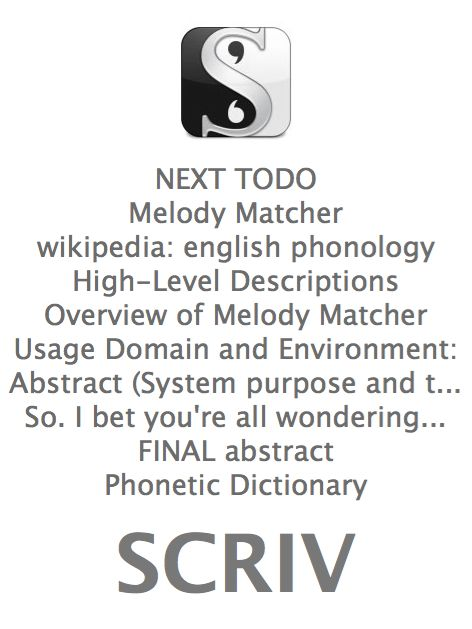
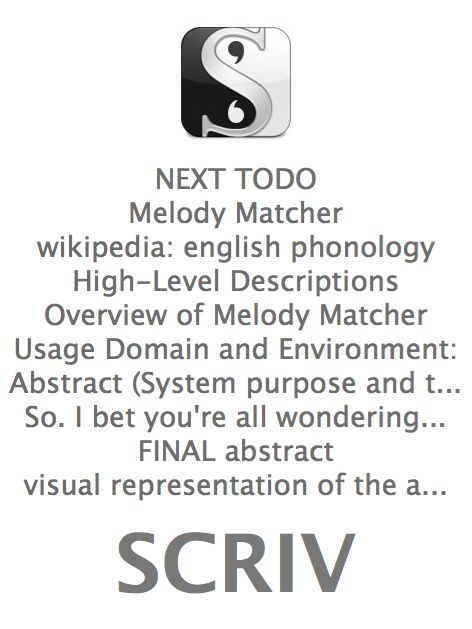
Writing abstract

Changed region(s): [[0.0297, 0.7552, 0.8898, 0.8156]]

diff --git a/Scrivener/ThesisDocumentsMelodyMatcher.scriv/QuickLook/Preview.html b/Scrivener/ThesisDocumentsMelodyMatcher.scriv/QuickLook/Preview.html
@@ -89,6 +89,17 @@ This project aims to facilitate semi-automated composition of melody and accompa
 <li>
 <p class="binderItem"><strong>FINAL abstract</strong><br/>Melody Matcher </p>
 </li>
+<li>
+<p class="binderItem"><strong>visual representation of the ambiguity of the written</strong><br/>visual representation of the phonetic ambiguity of the written word.  When writing with the expectation that ones words will be uttered by one party to an entirely different audience, you must take into account several layers of ambiguity:<br/>
+<br/>
+(1) the multiple ways that your words can be pronounced<br/>
+(2) the multiple ways that those pronunciations can be heard<br/>
+<br/>
+For example: Say you are a speechwriter.  Your speech contains the phrase “ In this blessed hour, let us rest what worries we have from the d...</p>
+</li>
+<li>
+<p class="binderItem"><strong>In this project, we developed visual representation</strong><br/>In this project, we developed visual representation of the phonetic ambiguity of written prose. Given any valid English phrase, our system will first generate all possible correct phonetic sequences for a General American Accent. Then, it parses through these phonetic transcriptions depth-first, looking for valid orthographic words for each subsequent phonetic subsequence, generating full and partial phrases from these words.  While it is doing so, a tree branch is generated on screen for each p...</p>
+</li>
 </ul>
 <hr/>
 <li>
@@ -866,6 +877,16 @@ Assertion failed: (0), function findPhoneTreeForOrthoPhrase, file wordBreakdown.
 Abort trap: 6</p>
 </li>
 </ul>
+<hr/>
+<li>
+<p class="binderItem"><strong>In this blessed hour let us rest what worries we have from the day</strong><br/>!Discovered 2592 oronyms:<br/>
+in this bless a dour let us rest what were e's we halve from the day ___SUCCESS!___<br/>
+in this bless a dour let us rest what were e's we halve from the des ___SUCCESS!___<br/>
+in this bless a dour let us rest what were e's we halve from the dey ___SUCCESS!___<br/>
+in this bless a dour let us rest what were e's we have from the day ___SUCCESS!___<br/>
+in this bless a dour let us rest what were e's we have from the des ___SUCCESS!___<br/>
+in this bless a dour let us rest what were e's we have f...</p>
+</li>
 </ul>
 <hr/>
 <li>
